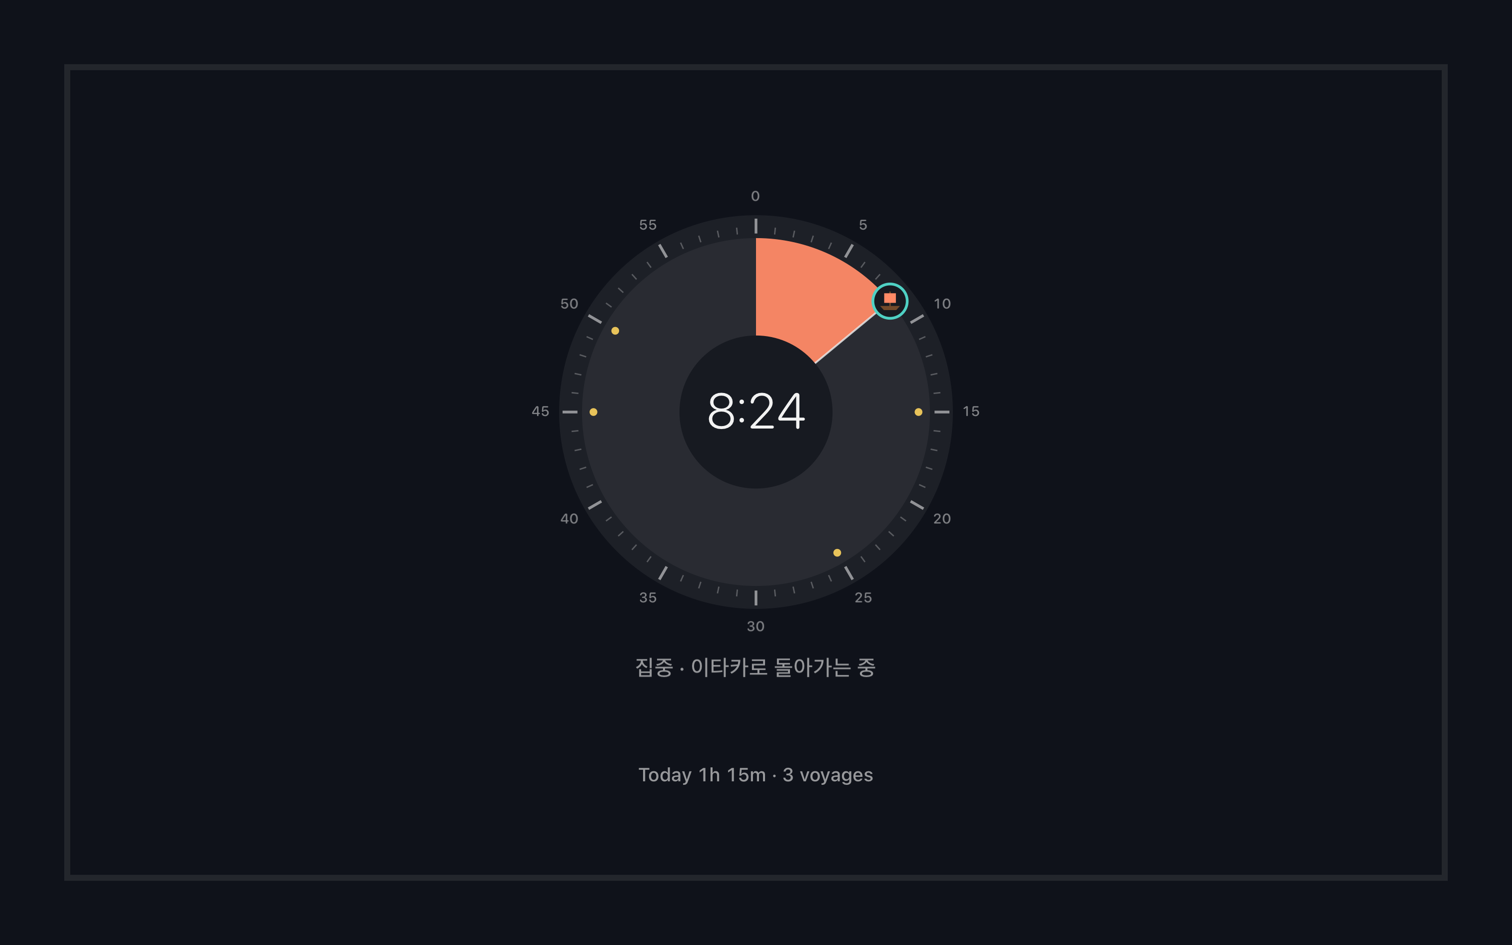
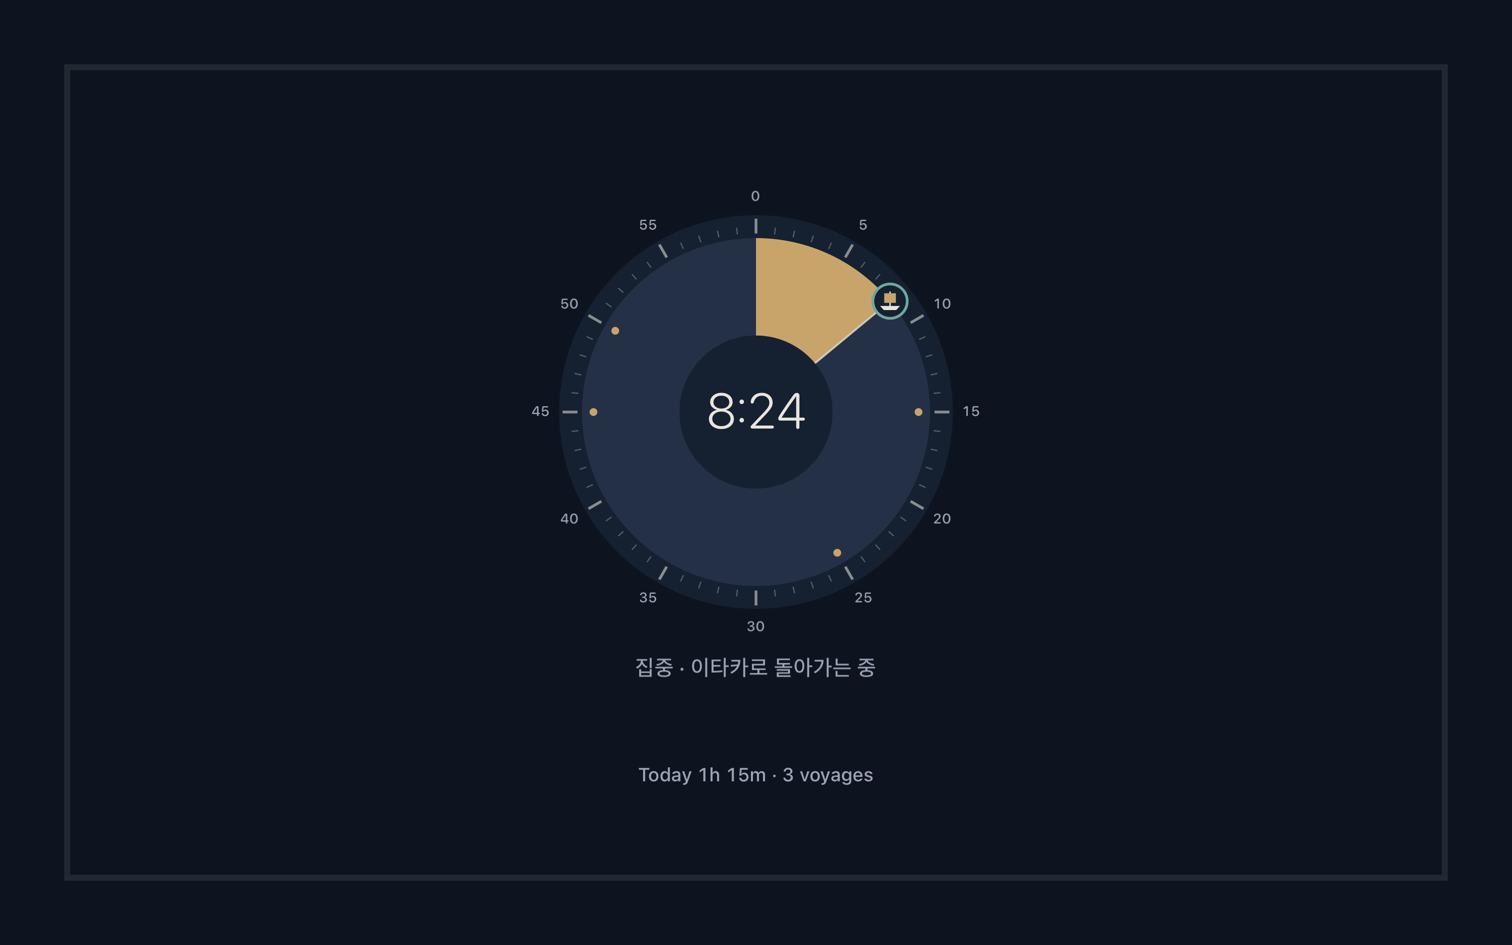
Colour pass: palette A (Aegean night) in light and dark, WCAG AA checked by tests
Navy ink, muted sea teal, one brass accent (last fifth, arrival), slate breaks, slate-blue Claude
Code signals, rust storm. Values in Tones (pure, tested for 4.5:1 text and 3:1 graphics);
Palette picks the variant by the system appearance and the app recolours when it changes.
Applied to the edge, the arrival wave, the dial, focus mode, the menu-bar ring and badge, and
the history chart. Before/after and the options sheet in assets/screenshots.

Changed region(s): [[0.4974, 0.2455, 0.6217, 0.3989]]

diff --git a/Sources/main.swift b/Sources/main.swift
@@ -189,6 +189,7 @@ final class App: NSObject, NSApplicationDelegate, NSMenuDelegate, NSWindowDelega
     var scrollCarry = 0.0                // trackpad scrolling not yet worth a whole step
     var detentHeld = 0                   // wheel notches the dial's current detent has held (Dial.wheel)
     var menuBarRing: String?             // the ring now drawn in the menu bar, to redraw only on change
+    var appearanceWatch: NSKeyValueObservation?
     var lengthShownUntil = Date.distantPast   // idle: the menu bar shows the length just scrolled to
     var backgroundIndex = Int.random(in: 0..<1000)
     lazy var history = HistoryLog(url: o.stateDir.appendingPathComponent("history.jsonl"))
@@ -218,6 +219,8 @@ final class App: NSObject, NSApplicationDelegate, NSMenuDelegate, NSWindowDelega
         if let a = o.appearance { NSApp.appearance = NSAppearance(named: a == "dark" ? .darkAqua : .aqua) }
         loadSprites()
         buildStatusItem()
+        // The palette has light and dark variants: recolour the edge and the menu bar when macOS switches.
+        appearanceWatch = NSApp.observe(\.effectiveAppearance) { [weak self] _, _ in DispatchQueue.main.async { self?.refresh() } }
         for b in o.demoBackdrop { showBackdrop(on: b) }
         rebuildOverlays()
         detector.log = { [weak self] in self?.log($0) }
@@ -1033,7 +1036,7 @@ final class App: NSObject, NSApplicationDelegate, NSMenuDelegate, NSWindowDelega
         }
         // A progress ring: a focus fills it (coral in the last five minutes), a break empties it.
         let ring = Dial.ring(phase, left: remaining * o.speed, total: phaseDuration * o.speed) ?? (0, .focus)
-        let key = "\(ring.tone)-\(Int(ring.fill * 64))"
+        let key = "\(ring.tone)-\(Int(ring.fill * 64))-\(Palette.dark)"
         if key != menuBarRing {   // redrawn only when it visibly changes
             b.image = DialView.ringIcon(ring.fill, ring.tone)
             menuBarRing = key
@@ -1047,17 +1050,17 @@ final class App: NSObject, NSApplicationDelegate, NSMenuDelegate, NSWindowDelega
         if let h = headerItem, h.title != header { h.title = header }
     }
 
-    /// The menu-bar badge while a finished focus waits: laurel gold with dark ink, so it reads on a
+    /// The menu-bar badge while a finished focus waits: bright brass with navy ink, so it reads on a
     /// light or a dark menu bar (gold text alone would not). The anchor comes from Apple Symbols:
     /// a plain glyph, not the colour emoji.
     func arrivalBadge(_ text: String) -> NSImage {
-        let ink = NSColor(srgbRed: 0.17, green: 0.13, blue: 0.04, alpha: 1), h: CGFloat = 18
+        let ink = Palette.color(Tones.badgeInk), h: CGFloat = 18
         let s = NSMutableAttributedString(string: "\u{2693}\u{FE0E} ", attributes: [.font: NSFont(name: "Apple Symbols", size: 15) ?? Typography.font(.badge),
                                                                                  .foregroundColor: ink, .baselineOffset: -1])
         s.append(Typography.string(text, .badge, color: ink))
         let ts = s.size()
         return NSImage(size: NSSize(width: ceil(ts.width) + 14, height: h), flipped: false) { r in
-            Palette.arrive.setFill()
+            Palette.color(Tones.badge).setFill()
             NSBezierPath(roundedRect: r, xRadius: h / 2, yRadius: h / 2).fill()
             s.draw(at: NSPoint(x: 7, y: ((h - ts.height) / 2).rounded()))
             return true

diff --git a/Sources/Overlay.swift b/Sources/Overlay.swift
@@ -30,14 +30,23 @@ struct Scene {
     var devicePixelsPerSpritePixel = 3
 }
 
+/// The colours (values and contrast checks in Tones): the light or dark variant by the system
+/// appearance, since the edge sits over whatever is on screen. Focus mode passes its own `dark`.
 enum Palette {
-    static let calm = NSColor(srgbRed: 0.31, green: 0.82, blue: 0.77, alpha: 0.85)    // teal
-    static let warm = NSColor(srgbRed: 1.00, green: 0.54, blue: 0.40, alpha: 0.95)    // coral, last 20%
-    static let rest = NSColor(srgbRed: 0.65, green: 0.55, blue: 0.98, alpha: 0.75)    // lavender
-    static let working = NSColor(srgbRed: 0.35, green: 0.66, blue: 1.00, alpha: 0.45) // quiet blue
-    static let waiting = NSColor(srgbRed: 1.00, green: 0.75, blue: 0.35, alpha: 0.95) // soft gold: Claude Code waits
-    static let arrive = NSColor(srgbRed: 0.91, green: 0.765, blue: 0.353, alpha: 1)    // #E8C35A laurel gold: home at Ithaca
-    static let limit = NSColor(srgbRed: 1.00, green: 0.62, blue: 0.10, alpha: 0.90)   // amber
+    static var dark: Bool { NSApp.effectiveAppearance.bestMatch(from: [.darkAqua, .aqua]) == .darkAqua }
+
+    static func color(_ rgb: UInt32, alpha: CGFloat = 1) -> NSColor {
+        NSColor(srgbRed: CGFloat(rgb >> 16 & 0xFF) / 255, green: CGFloat(rgb >> 8 & 0xFF) / 255, blue: CGFloat(rgb & 0xFF) / 255, alpha: alpha)
+    }
+    static func color(_ p: Tones.Pair, dark d: Bool = Palette.dark, alpha: CGFloat = 1) -> NSColor { color(d ? p.dark : p.light, alpha: alpha) }
+
+    static var calm: NSColor { color(Tones.teal) }                    // focus
+    static var warm: NSColor { color(Tones.brass) }                   // the last fifth
+    static var rest: NSColor { color(Tones.slate) }                   // a break
+    static var working: NSColor { color(Tones.signal, alpha: 0.45) } // quiet: Claude Code works
+    static var waiting: NSColor { color(Tones.signal) }               // Claude Code waits
+    static var arrive: NSColor { color(Tones.brass) }                 // home at Ithaca
+    static var limit: NSColor { color(Tones.rust, alpha: 0.9) }       // the storm near the usage limit
     static let track = NSColor(white: 0.5, alpha: 0.12)
 
     static func focus(at t: Double) -> NSColor {
@@ -189,7 +198,7 @@ final class Overlay {
         CATransaction.commit()
     }
 
-    /// Arrival: a laurel-gold wave runs twice round the edge from the harbor (bottom-left, where
+    /// Arrival: a brass wave runs twice round the edge from the harbor (bottom-left, where
     /// the route starts and ends), then ripples and a few sparkles there. One-shot Core Animation
     /// on throwaway layers: nothing keeps running, and a hidden overlay skips it.
     func celebrate() {
@@ -350,7 +359,7 @@ final class Overlay {
         track.isHidden = false
         fill.isHidden = false
         track.strokeColor = Palette.track.cgColor
-        if s.phase == .arrived {   // home: the whole trail in laurel gold, still, until the user moves on
+        if s.phase == .arrived {   // home: the whole trail in brass, still, until the user moves on
             fill.strokeColor = Palette.arrive.cgColor
             fill.strokeEnd = 1
             return

diff --git a/Sources/DialView.swift b/Sources/DialView.swift
@@ -49,7 +49,7 @@ final class DialView: NSView {
         time.alignmentMode = .center
         bubbleText.alignmentMode = .center
         bubble.opacity = 0
-        bubble.backgroundColor = NSColor(srgbRed: 0.11, green: 0.12, blue: 0.15, alpha: 0.88).cgColor
+        bubble.backgroundColor = Palette.color(Tones.ink.light, alpha: 0.9).cgColor   // navy, light text: either appearance
         recolor()
     }
 
@@ -193,31 +193,31 @@ final class DialView: NSView {
 
     // MARK: colours
 
-    private var ink: NSColor { night ? NSColor(white: 0.95, alpha: 1) : NSColor(srgbRed: 0.12, green: 0.13, blue: 0.17, alpha: 1) }
-    private var numeralColor: NSColor { ink.withAlphaComponent(0.5) }
+    private var ink: NSColor { Palette.color(Tones.ink, dark: night) }
+    private var numeralColor: NSColor { Palette.color(Tones.muted, dark: night) }
 
     private func recolor() {
-        let calm = state.tone == .rest ? Palette.rest : Palette.calm
+        let calm = Palette.color(state.tone == .rest ? Tones.slate : Tones.teal, dark: night), brass = Palette.color(Tones.brass, dark: night)
         CATransaction.begin()
         CATransaction.setDisableActions(true)
-        bezel.fillColor = (night ? NSColor(white: 1, alpha: 0.06) : NSColor(srgbRed: 1, green: 0.995, blue: 0.98, alpha: 0.95)).cgColor
+        bezel.fillColor = Palette.color(Tones.surface, dark: night).cgColor
         bezel.shadowColor = NSColor.black.cgColor
         bezel.shadowOpacity = night ? 0 : 0.10
         bezel.shadowRadius = 18
         bezel.shadowOffset = CGSize(width: 0, height: -4)
-        face.fillColor = (night ? NSColor(white: 1, alpha: 0.05) : NSColor(srgbRed: 0.945, green: 0.925, blue: 0.88, alpha: 1)).cgColor
+        face.fillColor = Palette.color(Tones.face, dark: night).cgColor
         minors.strokeColor = ink.withAlphaComponent(0.28).cgColor
         majors.strokeColor = ink.withAlphaComponent(0.55).cgColor
-        coral.strokeColor = (state.tone == .rest ? Palette.rest : Palette.warm).cgColor
+        coral.strokeColor = (state.tone == .rest ? calm : brass).cgColor
         teal.strokeColor = calm.cgColor
-        rim.strokeColor = Palette.arrive.cgColor
-        dots.fillColor = Palette.arrive.cgColor
+        rim.strokeColor = brass.cgColor
+        dots.fillColor = brass.cgColor
         needle.strokeColor = ink.withAlphaComponent(0.8).cgColor
-        hub.fillColor = (night ? NSColor(srgbRed: 0.09, green: 0.10, blue: 0.13, alpha: 1) : NSColor(srgbRed: 1, green: 0.99, blue: 0.975, alpha: 1)).cgColor
+        hub.fillColor = bezel.fillColor
         disc.fillColor = hub.fillColor
-        disc.strokeColor = calm.withAlphaComponent(1).cgColor
-        hull.fillColor = NSColor(srgbRed: 0.45, green: 0.29, blue: 0.17, alpha: 1).cgColor
-        sail.fillColor = Palette.warm.withAlphaComponent(1).cgColor
+        disc.strokeColor = calm.cgColor
+        hull.fillColor = ink.cgColor
+        sail.fillColor = brass.cgColor
         CATransaction.commit()
         paintNumerals()
         paintTime()

diff --git a/Sources/Tones.swift b/Sources/Tones.swift
@@ -1,0 +1,40 @@
+import Foundation
+
+/// The colours, palette "Aegean night": navy ink, a muted sea teal, one warm-brass accent (a
+/// session's last fifth and the arrival), slate for breaks, a slate blue for Claude Code and a
+/// rust for its usage storm. Each has a light and a dark variant (sRGB hex). Pure, so the tests
+/// hold every pair to WCAG AA; Palette turns them into colours.
+enum Tones {
+    struct Pair { let light: UInt32, dark: UInt32 }
+
+    // Neutrals: focus mode's page, the dial's bezel and hub, the dial's face, text.
+    static let paper = Pair(light: 0xF3F0E8, dark: 0x0D1420)
+    static let surface = Pair(light: 0xFBF9F4, dark: 0x152031)
+    static let face = Pair(light: 0xE9E5DC, dark: 0x243046)
+    static let ink = Pair(light: 0x18222F, dark: 0xE9E5DC)
+    static let muted = Pair(light: 0x56606E, dark: 0x9AA4B4)
+    // Hues: few and desaturated.
+    static let teal = Pair(light: 0x4A807C, dark: 0x6FA7A1)     // focus
+    static let brass = Pair(light: 0x977542, dark: 0xC8A46A)    // the last fifth, arrival
+    static let slate = Pair(light: 0x6F7D95, dark: 0x8A9AB8)    // a break
+    static let signal = Pair(light: 0x5A78A0, dark: 0x7F9CC6)   // Claude Code works / waits
+    static let rust = Pair(light: 0xA9573F, dark: 0xCF7A5C)     // near the usage limit
+    /// The menu-bar arrival badge: bright brass with navy ink on either menu bar.
+    static let badge: UInt32 = 0xC8A46A
+    static let badgeInk: UInt32 = 0x18222F
+
+    /// WCAG 2 relative luminance of an sRGB hex colour.
+    static func luminance(_ rgb: UInt32) -> Double {
+        func ch(_ shift: UInt32) -> Double {
+            let v = Double(rgb >> shift & 0xFF) / 255
+            return v <= 0.03928 ? v / 12.92 : pow((v + 0.055) / 1.055, 2.4)
+        }
+        return 0.2126 * ch(16) + 0.7152 * ch(8) + 0.0722 * ch(0)
+    }
+
+    /// WCAG 2 contrast ratio, 1...21.
+    static func contrast(_ a: UInt32, _ b: UInt32) -> Double {
+        let (x, y) = (luminance(a), luminance(b))
+        return (max(x, y) + 0.05) / (min(x, y) + 0.05)
+    }
+}

diff --git a/Sources/Focus.swift b/Sources/Focus.swift
@@ -95,8 +95,7 @@ final class FocusView: NSView {
     /// Light and dark appearance: a deep night sea or a pale sand page, the digits in ink.
     /// Over a photo the digits are always light, on a dark scrim.
     override func updateLayer() {
-        layer?.backgroundColor = (dark ? NSColor(srgbRed: 0.06, green: 0.07, blue: 0.10, alpha: 1)
-                                       : NSColor(srgbRed: 0.97, green: 0.96, blue: 0.93, alpha: 1)).cgColor
+        layer?.backgroundColor = Palette.color(Tones.paper, dark: dark).cgColor
         dial.night = night
         paintText()
         for l in [time, caption, footer] {
@@ -107,8 +106,8 @@ final class FocusView: NSView {
     }
 
     private var night: Bool { dark || hasBackdrop }
-    private var ink: NSColor { night ? NSColor(white: 0.95, alpha: 1) : NSColor(srgbRed: 0.12, green: 0.13, blue: 0.17, alpha: 1) }
-    private var soft: NSColor { night ? NSColor(white: 0.95, alpha: hasBackdrop ? 0.75 : 0.6) : ink.withAlphaComponent(0.6) }
+    private var ink: NSColor { hasBackdrop ? NSColor(white: 0.95, alpha: 1) : Palette.color(Tones.ink, dark: dark) }
+    private var soft: NSColor { hasBackdrop ? NSColor(white: 0.95, alpha: 0.75) : Palette.color(Tones.muted, dark: dark) }
 
     /// The texts in their Typography roles: the hero count, captions in tracked medium.
     private func paintText() {

diff --git a/Tests/MotionTests/TonesTests.swift b/Tests/MotionTests/TonesTests.swift
@@ -1,0 +1,30 @@
+import Testing
+@testable import EdgeMotion
+
+// The palette meets WCAG AA in both appearances: text 4.5:1, graphics (wedge, edge, rings) 3:1.
+
+@Test func contrastMatchesWCAG() {
+    #expect(abs(Tones.contrast(0x000000, 0xFFFFFF) - 21) < 0.01)
+    #expect(Tones.contrast(0x777777, 0x777777) == 1)
+    #expect(abs(Tones.contrast(0x767676, 0xFFFFFF) - 4.54) < 0.01)   // the classic AA grey
+}
+
+@Test(arguments: [false, true])
+func textMeetsAA(dark: Bool) {
+    func v(_ p: Tones.Pair) -> UInt32 { dark ? p.dark : p.light }
+    for bg in [Tones.paper, Tones.surface, Tones.face] {
+        #expect(Tones.contrast(v(Tones.ink), v(bg)) >= 4.5)
+        #expect(Tones.contrast(v(Tones.muted), v(bg)) >= 4.5)
+    }
+    #expect(Tones.contrast(Tones.badgeInk, Tones.badge) >= 4.5)
+}
+
+@Test(arguments: [false, true])
+func huesStandOutAsGraphics(dark: Bool) {
+    func v(_ p: Tones.Pair) -> UInt32 { dark ? p.dark : p.light }
+    for hue in [Tones.teal, Tones.brass, Tones.slate, Tones.signal, Tones.rust] {
+        for bg in [Tones.paper, Tones.surface, Tones.face] {   // the wedge sits on the face, rings and edges on the page
+            #expect(Tones.contrast(v(hue), v(bg)) >= 3)
+        }
+    }
+}

diff --git a/Sources/Windows.swift b/Sources/Windows.swift
@@ -319,7 +319,7 @@ struct HistoryView: View {
             Chart {
                 ForEach(days, id: \.day) { d in
                     BarMark(x: .value(L.t("Day", "날짜", "日付", "日期"), d.day, unit: .day), y: .value(L.t("Hours", "시간", "時間", "小时"), d.seconds / 3600))
-                        .foregroundStyle(goalHours > 0 && d.seconds >= goalHours * 3600 ? Color.orange : Color.teal)
+                        .foregroundStyle(Color(nsColor: goalHours > 0 && d.seconds >= goalHours * 3600 ? Palette.arrive : Palette.calm))
                 }
                 if goalHours > 0 {
                     RuleMark(y: .value(L.t("Goal", "목표", "目標", "目标"), goalHours))

diff --git a/Package.swift b/Package.swift
@@ -7,7 +7,7 @@ let package = Package(
     platforms: [.macOS(.v13)],
     targets: [
         .target(name: "EdgeMotion", path: "Sources", sources: ["Journey.swift", "Motion.swift", "Episodes.swift", "Clock.swift", "FocusLayout.swift", "History.swift",
-                                                         "L10n.swift", "Update.swift", "Dial.swift"]),
+                                                         "L10n.swift", "Update.swift", "Dial.swift", "Tones.swift"]),
         .testTarget(name: "MotionTests", dependencies: ["EdgeMotion"], path: "Tests/MotionTests"),
     ]
 )

diff --git a/README.ko.md b/README.ko.md
@@ -71,7 +71,7 @@ open "/Applications/Edge Odyssey.app"
 ```
 
 처음 실행하면 세 쪽짜리 환영 안내가 열립니다. 그다음부터는 메뉴 막대(점선 동그라미)에 있습니다.
-시계가 도는 동안에는 작은 고리로 바뀌어 집중 중엔 차오르고, 마지막 5분엔 산호색이 되고, 휴식 중엔 줄어듭니다.
+시계가 도는 동안에는 작은 고리로 바뀌어 집중 중엔 차오르고, 마지막 5분엔 황동색이 되고, 휴식 중엔 줄어듭니다.
 
 <p align="center"><img src="assets/screenshots/welcome.png" width="720" alt="환영 안내 1, 2쪽"></p>
 
@@ -177,8 +177,8 @@ HTTPS GET 한 번이고, 보내는 것은 `User-Agent: EdgeOdyssey/<버전>`, `A
 
 *집중 모드*(Control-Option-Command-F 또는 메뉴)는 지난번에 쓴 모니터, 없으면 지금 작업 중인
 모니터에 전체 화면으로 열립니다. 가운데는 60분 눈금의 다이얼이고 12시부터 시계 방향으로 읽습니다.
-쐐기가 남은 시간입니다(청록. 세션의 마지막 5분의 1은 산호색이라 끝이 다가오면 쐐기가 산호색이
-되고, 휴식 중엔 연보라). 남은 시간 숫자는 가운데 원에 나옵니다. 쐐기 끝의 돛배를 잡고 돌리거나
+쐐기가 남은 시간입니다(바다 청록. 세션의 마지막 5분의 1은 황동색이라 끝이 다가오면 쐐기가 황동색이
+되고, 휴식 중엔 슬레이트). 남은 시간 숫자는 가운데 원에 나옵니다. 쐐기 끝의 돛배를 잡고 돌리거나
 눈금을 눌러 시간을 맞추고, 아무것도 돌지 않을 때는 다이얼 아래 프리셋을 고를 수 있습니다. 한 시간을
 넘으면 눈금이 꽉 찹니다. 스톱워치는 큰 숫자 그대로입니다. VoiceOver는 다이얼을 조절 가능한
 슬라이더로 읽습니다. 바깥 둘레의 트랙이 진행

diff --git a/README.md b/README.md
@@ -74,7 +74,7 @@ open "/Applications/Edge Odyssey.app"
 
 The first launch opens a three-page welcome guide. After that, Edge Odyssey lives in the
 menu bar (the dashed circle; while a clock runs, a small ring that fills during a focus, turns
-coral in its last five minutes and empties during a break).
+brass in its last five minutes and empties during a break).
 
 <p align="center"><img src="assets/screenshots/welcome.png" width="720" alt="Welcome guide, pages 1 and 2"></p>
 
@@ -190,8 +190,8 @@ for two notches, a drag snaps to them, and a Force Touch trackpad gives a tap.
 
 *Focus mode* (Control-Option-Command-F, or the menu) opens a full-screen view on the display
 you last used for it, or the one you are working on. The middle is a dial with a 60-minute face,
-read clockwise from twelve: the wedge is the time left (teal; the session's last fifth coral, so
-the wedge turns coral as the end nears; lavender during a break), with the countdown in its hub.
+read clockwise from twelve: the wedge is the time left (sea teal; the session's last fifth brass, so
+the wedge turns brass as the end nears; slate during a break), with the countdown in its hub.
 A sailboat marks the wedge's edge; drag it round or click the face to set the time, or pick a
 preset under the dial while nothing runs. Longer than an hour fills the face. The stopwatch keeps
 the large digits. VoiceOver reads the dial as an adjustable slider. The track around it all is the progress bar (teal, coral near the end, lavender

diff --git a/CHANGELOG.md b/CHANGELOG.md
@@ -2,6 +2,14 @@
 
 ## Unreleased
 
+- **Colour pass, palette "Aegean night"** (picked from three options in
+  [`assets/screenshots/palette-options.png`](assets/screenshots/palette-options.png)): navy ink, a
+  muted sea teal for focus, one warm-brass accent for a session's last fifth and the arrival,
+  slate for breaks, slate blue for Claude Code, rust for the usage storm; light and dark variants
+  everywhere (edge, dial, focus mode, menu bar, history chart), following the system appearance.
+  Values live in `Tones`, and a test holds every text pair to WCAG AA (4.5:1) and every hue to
+  3:1 against the page, the dial face and the hub. Before/after:
+  [`assets/screenshots/colour-before-after.png`](assets/screenshots/colour-before-after.png).
 - Focus mode has a **Time-Timer-style dial**: a 60-minute face read clockwise from twelve, the
   time left as a wedge (teal, coral for the session's last fifth, lavender on a break), gold
   detents at 15, 25, 45 and 50 minutes and a sailboat handle at the wedge's edge, with the
